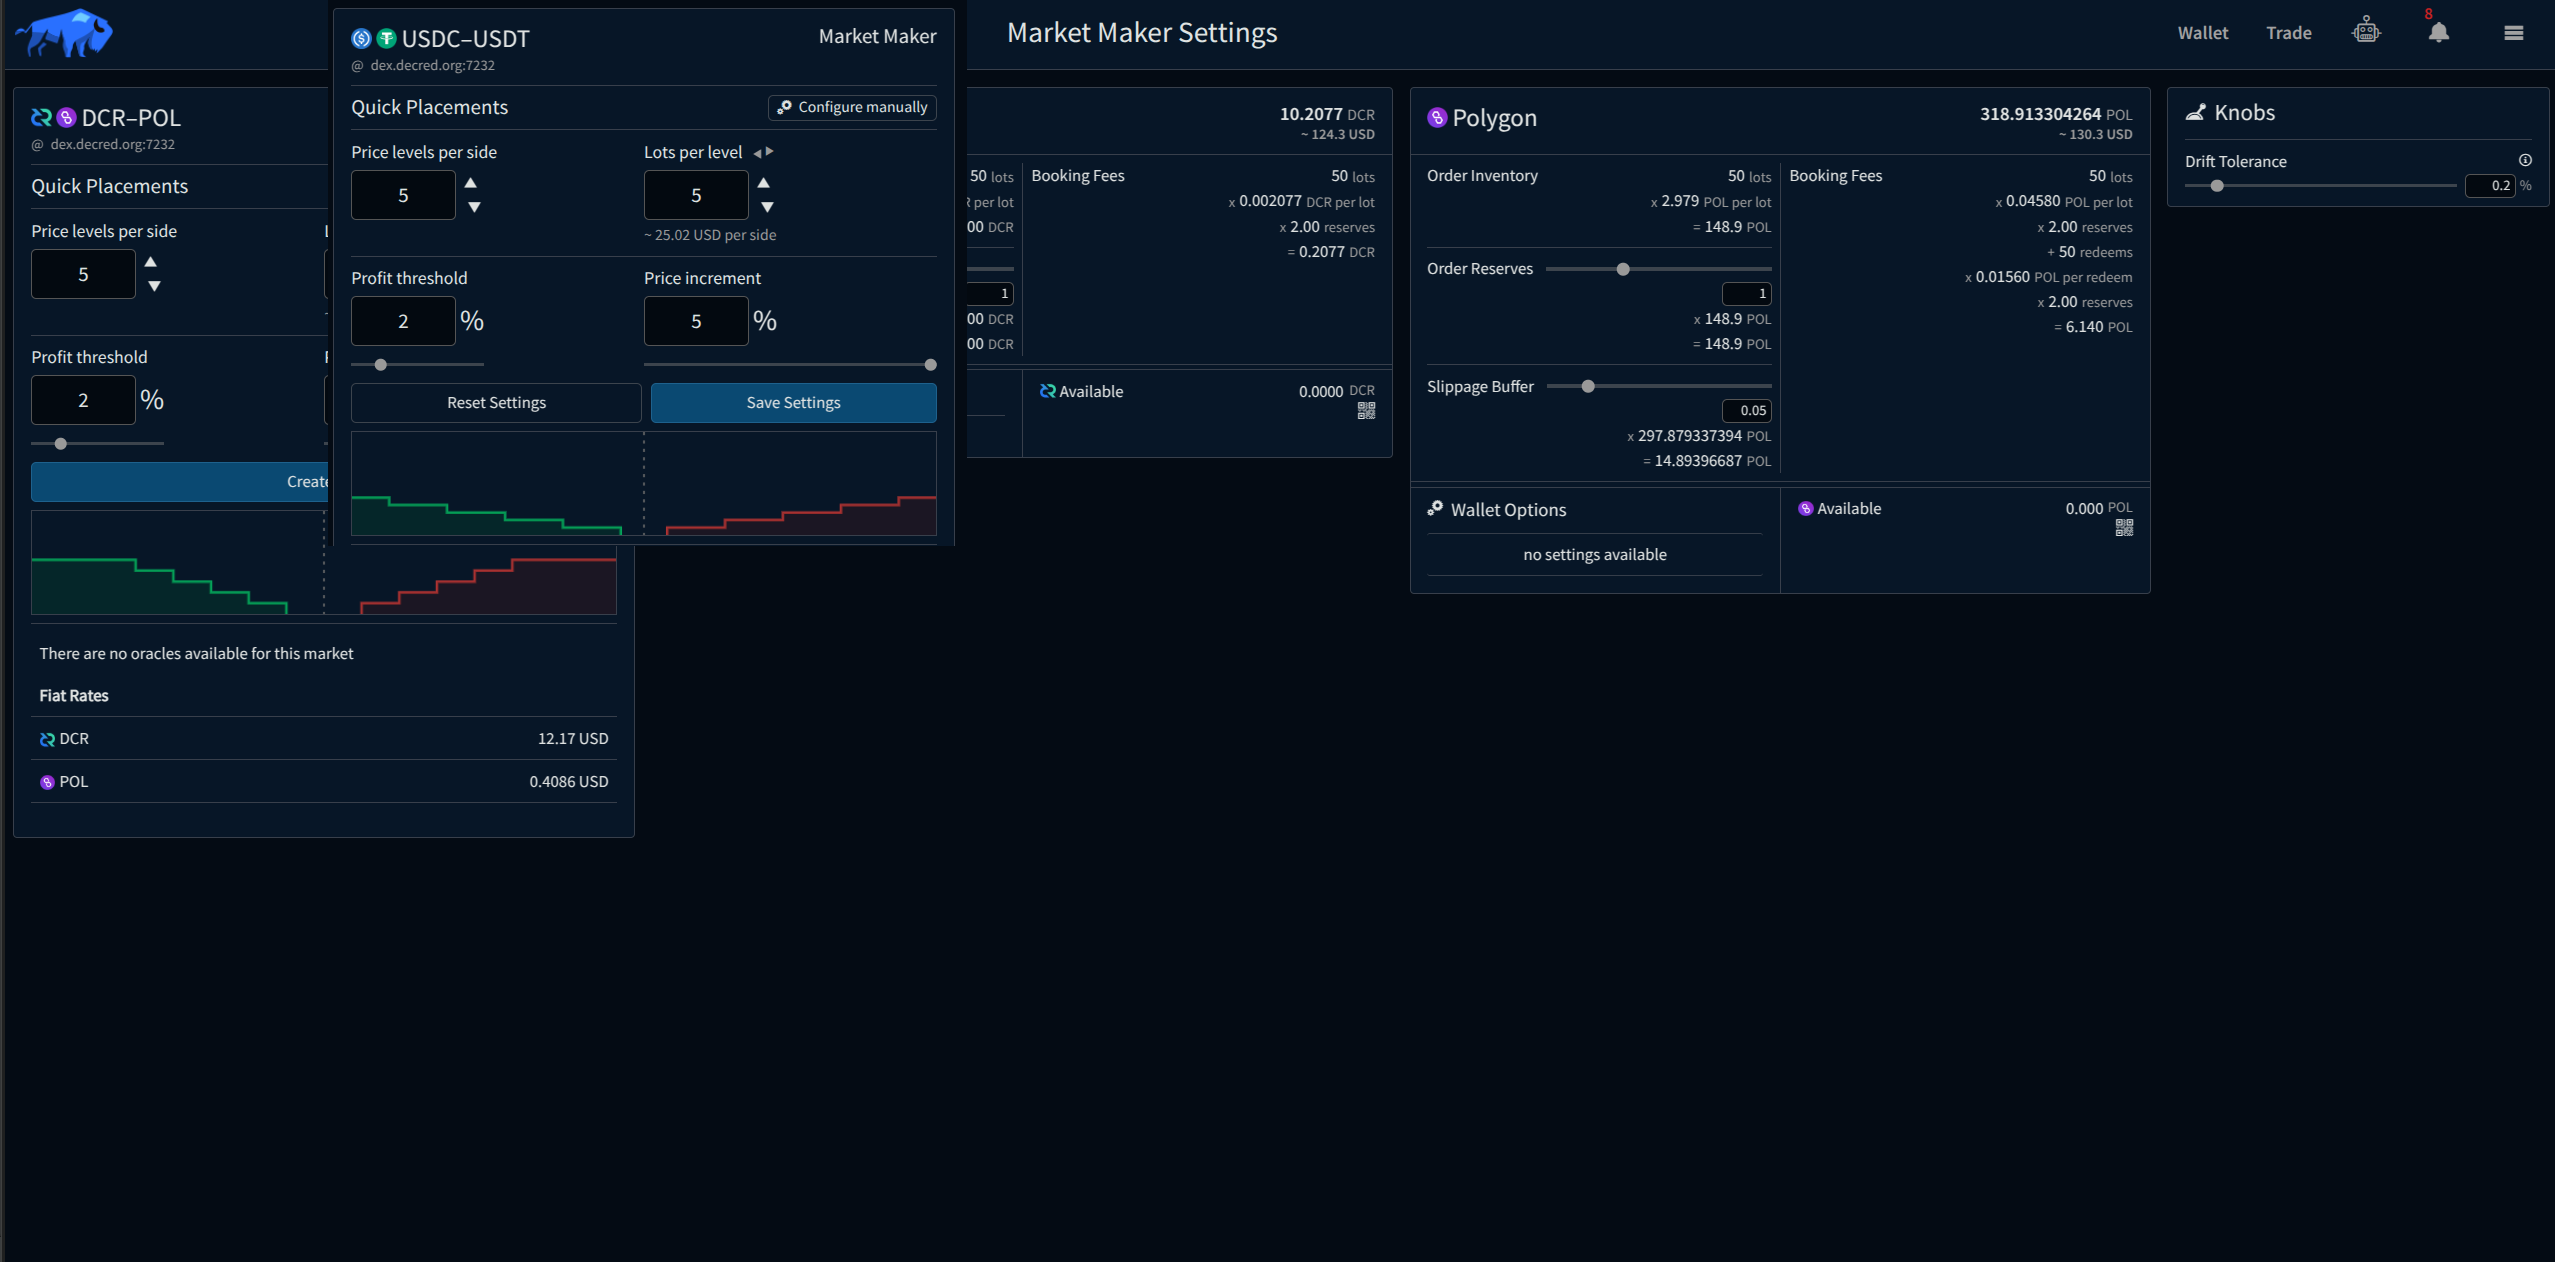
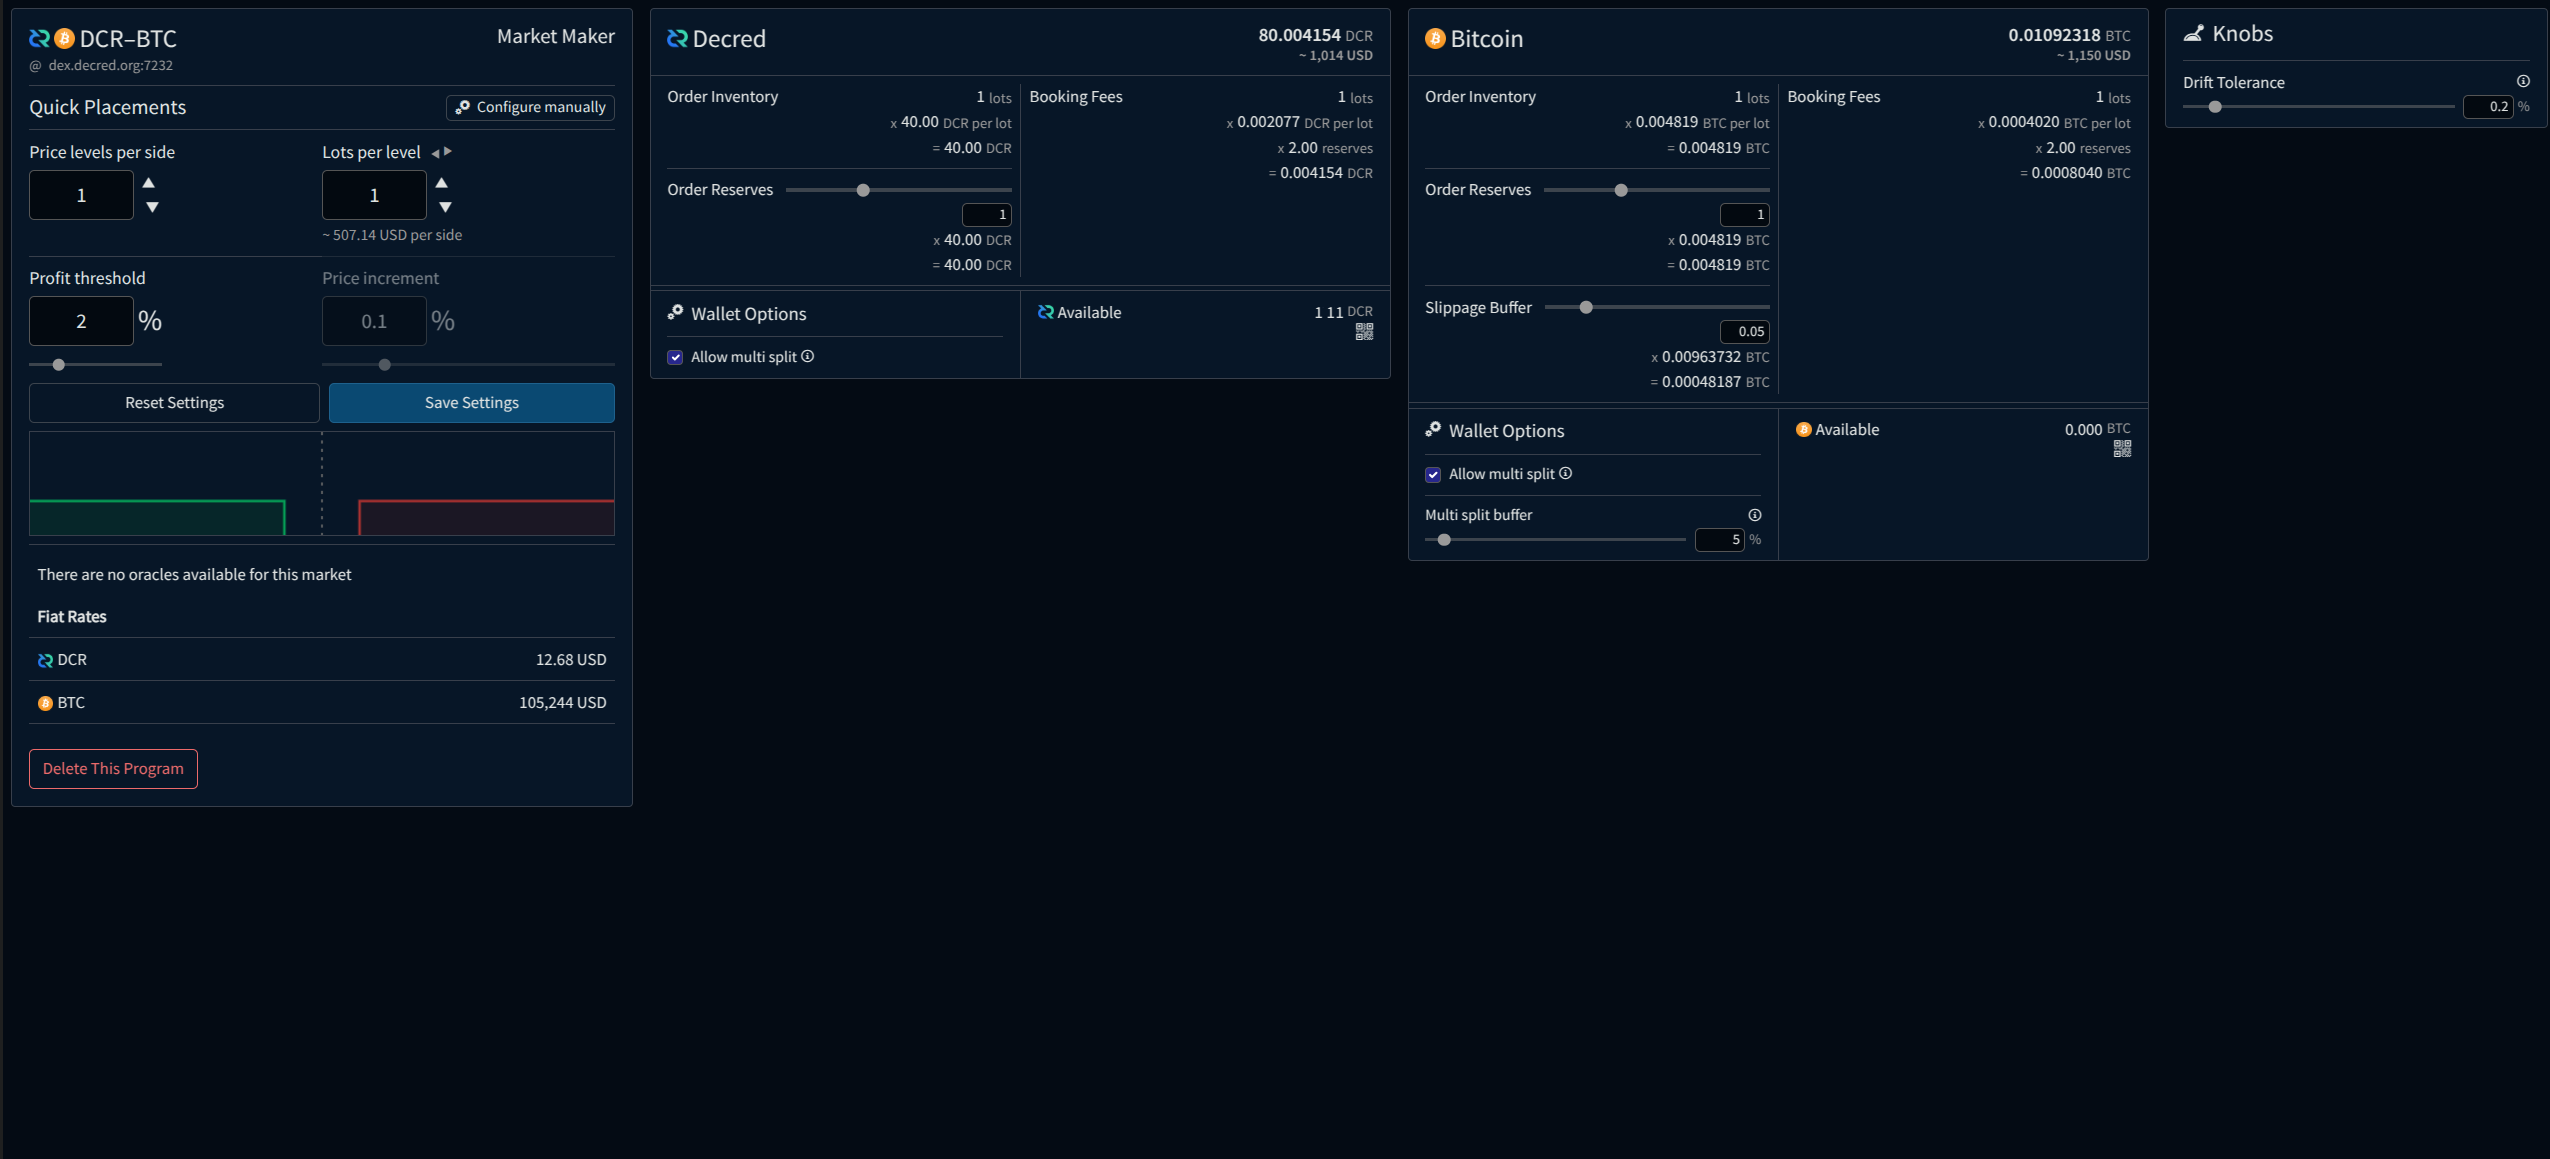
add mm docs

diff --git a/docs/wiki/Market-Making.md b/docs/wiki/Market-Making.md
@@ -24,37 +24,67 @@ The market making functionality can be accessed from the header.
 
 <img src="./images/using-bison-wallet/header-mm.png" width="400" alt="">
 
-Upon opening the Market Making screen for the first time, you can create a new bot, configure API access for centralized exchanges, or review previous run logs.
+# Bot Management
+
+Upon opening the market making screen, you can create a new bot, edit an existing bot, configure API access for centralized exchanges, or review previous run logs.
 
 <img src="./images/using-bison-wallet/mm-start.png" width="800" alt="">
 
-
-# Creating a New Bot
-
-When creating a new bot, you will be prompted to select the market you want to trade in. If you have configured API access for supported centralized exchanges, an icon will highlight the markets that support arbitrage strategies.
+When creating a new bot, you will be prompted to select the market you want it to trade in. If you have configured API access for supported centralized exchanges, an icon will highlight the markets that support arbitrage strategies.
 
 <img src="./images/using-bison-wallet/mm-selectmarket.png" width="400" alt="">
 
-After selecting the desired market, a prompt will appear, allowing you to choose one of the supported strategies.
+After selecting the desired market, a prompt will appear, allowing you to choose one of the supported bots.
 
 <img src="./images/using-bison-wallet/mm-choosebot.png" width="400" alt="">
 
+After configuring placements and other parameters, the bot can be created by clicking the `Create Bot` button.
 
+<img src="./images/using-bison-wallet/mm-basic-createbot.png" width="400" alt="">
+
+The Market Making Overview screen will appear, displaying all configured bots.
+
+<img src="./images/using-bison-wallet/mm-basic-createbot2.png" width="800" alt="">
+
+To start the bot, click the `Allocate and Run` button. A prompt will appear, confirming whether you have sufficient funds to run the bot with the configured parameters.
+
+<img src="./images/using-bison-wallet/mm-allocate-1.png" width="400" alt="">
+ 
+The bot can then be started by pressing the <img src="./images/using-bison-wallet/mm-start-button.png" width="20" alt=""> button.
+
+The market making screen will update to display the bot's status and key performance statistics.
+
+<img src="./images/using-bison-wallet/mm-basic-running.png" width="800" alt="">
+
+If you do not have sufficient funds to run the bot with the specified parameters, the allocation prompt will display a warning and prevent the bot from starting.
+
+<img src="./images/using-bison-wallet/mm-allocate-2.png" width="400" alt="">
+
+The bot can be stopped by pressing the `Stop` button, or deleted by pressing the <img src="./images/using-bison-wallet/mm-delete-button.png" width="20" alt=""> button. 
+
+## Bot Settings
+
+The market maker settings allow you to configure all the necessary parameters for your bot, it can be accessed by pressing the <img src="./images/using-bison-wallet/mm-botconfig-button.png" width="20" alt=""> button.
+
+
+<img src="./images/using-bison-wallet/mm-settings.png" width="1200" alt="">
+
+The bot's parameters can be confirmed by pressing the `Save Settings` button.
+
+# Bot Types
+
+The following section details the bot types available in Bison Wallet and their configuration parameters.
 
 ## Basic Market Maker
 
 The Basic Market Maker aims to profit from market volatility by placing buy and sell orders at predefined price intervals based 
-on the selected strategy. It works by creating a "grid" of orders around the basis market price. As the market fluctuates, 
+on the selected strategy. It works by creating a grid of orders around the basis market price. As the market fluctuates, 
 buy orders are matched when the price drops to a specific level, and corresponding sell orders are matched as the price rises. 
 The strategy continually adjusts by replenishing orders to maintain the grid, allowing traders to capture profits from price 
 oscillations without needing to predict the market's direction.
 
 
 
-The market maker settings allow you to configure all the necessary parameters for your bot.
-
-
-<img src="./images/using-bison-wallet/mm-settings.png" width="1200" alt="">
 
 ### Basis Price
 
@@ -82,7 +112,7 @@ The following placement settings are available in Quick Configuration mode:
 * **Profit Threshold:** Adjusts the spread by adding a margin to the breakeven spread, expressed as a percentage of the mid-gap price.
 * **Price Increment:** The price difference between consecutive order levels in the order book.
 
-<img src="./images/using-bison-wallet/mm-placements-quick-layout.png" width="400" alt="">
+<img src="./images/using-bison-wallet/mm-placements-quick-layout.png" width="800" alt="">
 
 
 #### Manual Configuration
@@ -111,4 +141,21 @@ The following placement settings are available in the Manual Configuration mode:
 
 The asset settings panel allows users to configure the amount of funds the bot will allocate and reserve while running in the specified market.
 
-<img src="./images/using-bison-wallet/mm-basic-assetsettings.png" width="600" alt="">
+<img src="./images/using-bison-wallet/mm-basic-assetsettings.png" width="800" alt="">
+
+* **Order Inventory:** The amount of funds required to initially place all specified orders.
+* **Order Reserves:** Additional funds allocated for placing extra orders, specified as a multiple of the initial placements.
+* **Commit Total:** The total amount of funds allocated for order placements.
+* **Booking Fees:**  The funds required to cover swap fee obligations for the initial placements.
+* **Swap Fee Reserves:** Additional funds set aside for swap fees to accommodate extra orders, specified as the number of swaps.
+* **Fee Reserves:** The total amount of funds allocated for swap fees..
+* **Slippage Buffer:**  Extra funds reserved as a buffer to account for slippage..
+
+### Knobs
+
+The knobs panel contains additional settings that are specific to the basic market maker bot.
+
+<img src="./images/using-bison-wallet/mm-basic-knobs.png" width="400" alt="">
+
+* **Drift Tolerance:** The allowable deviation from the ideal order price before the bot cancels and rebooks the order.
+
